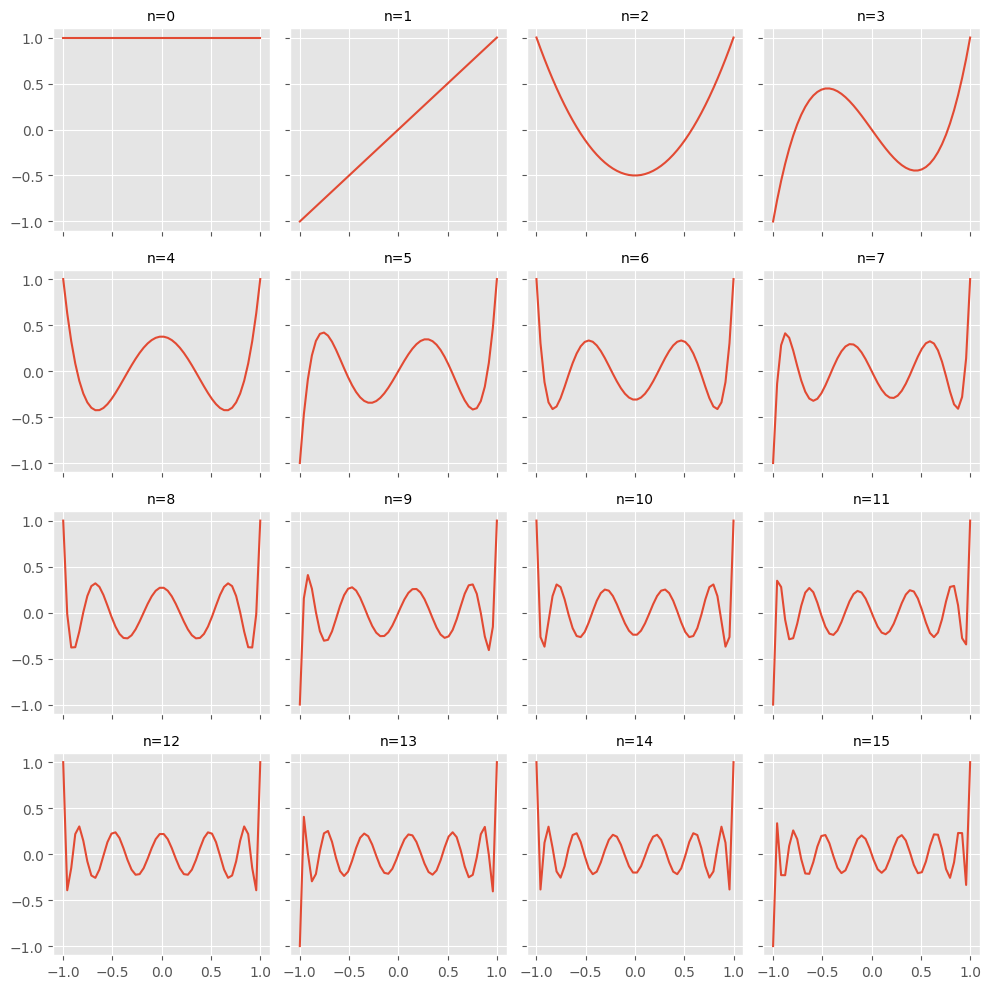
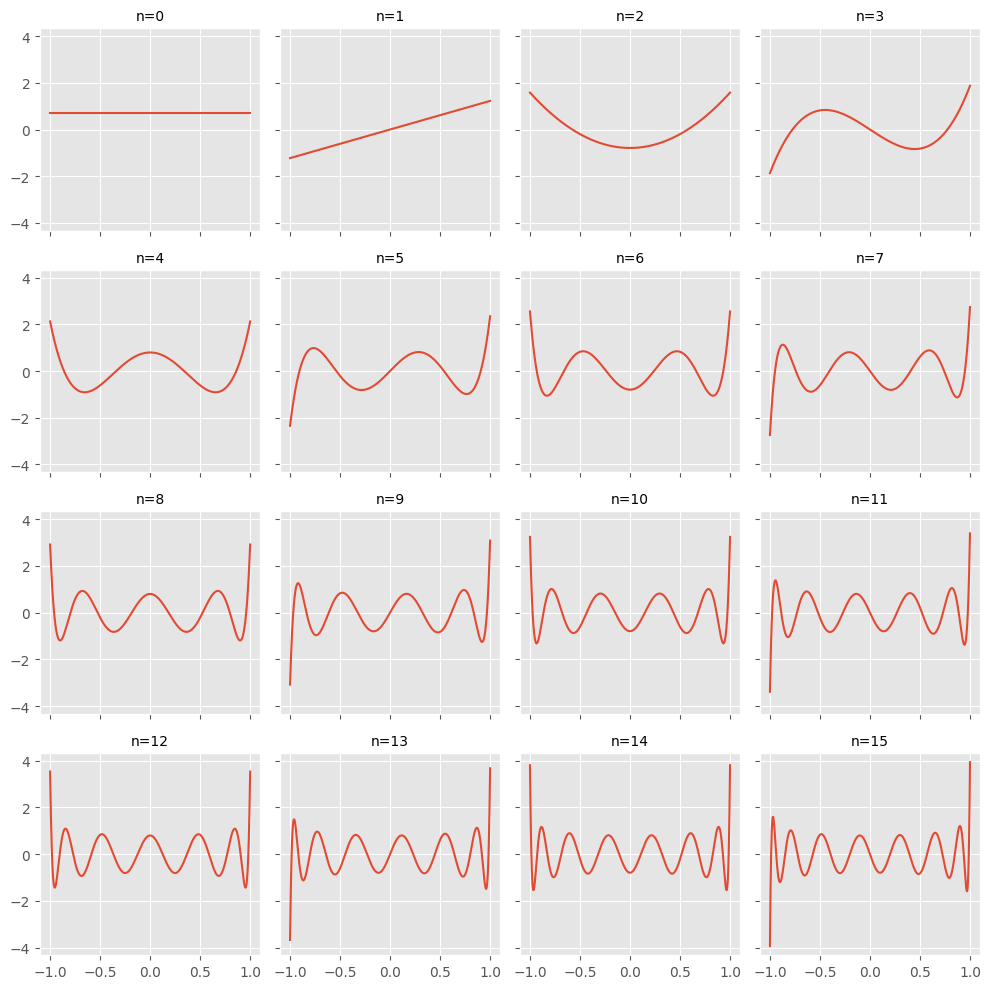
small fixes

diff --git a/_posts/2024-08-15-legendre.md b/_posts/2024-08-15-legendre.md
@@ -124,7 +124,7 @@ X = np.linspace(-1, 1)
 fig, axes = plt.subplots(figsize=(10, 10), nrows=4, ncols=4, sharex=True, sharey=True)
 axes = axes.flatten()
 for n, ax in zip(range(0, 16), axes):
-    y = eval_legendre(n, X)
+    y = eval_legendre(n, X) * np.sqrt((2 * n + 1 ) /2)
     ax.plot(X, y, label=r'$P_{}(x)$'.format(n))
     ax.set_title(f'n={n}', fontdict=dict(size=10))
 fig.tight_layout()
@@ -140,16 +140,16 @@ To create basis functions for our two-dimensional case, wwe take the products of
 
 $$
 \begin{aligned}
-\psi_0(x, y) & = \mathcal{L}_0(x) \mathcal{L}_0(y) \\
-\psi_1(x, y) & = \mathcal{L}_1(x) \mathcal{L}_0(y) \\
-\psi_2(x, y) & = \mathcal{L}_0(x) \mathcal{L}_1(y)
+\psi_1(x, y) & = \mathcal{L}_0(x) \mathcal{L}_0(y) \\
+\psi_2(x, y) & = \mathcal{L}_1(x) \mathcal{L}_0(y) \\
+\psi_3(x, y) & = \mathcal{L}_0(x) \mathcal{L}_1(y)
 \end{aligned}
 $$
 
 and so on. This gives a total of $B=\frac{1}{2}(n + 1)(n + 2)$ basis functions for any value of $m$. Becasue of the orthogonality discussed above, we have
 
 $$
-\int_{-1}^1 \int_{-1}^1 \psi_i(x, y) \psi_j(x, y) dx dx = \delta_{i, j}.
+\int_{-1}^1 \int_{-1}^1 \psi_i(x, y) \psi_j(x, y) dx dy = \delta_{i, j}.
 $$
 
 It is worthwhile to visualize those basis functions, to appreciate their lack of smoothness as $m$ increases.
@@ -199,20 +199,62 @@ $$
 where the coefficients $a_{t, b}$ are estimated by minimizing the least square error,
 
 $$
-a_t = \argmin_{\alpha} \sum_{i=1}^B \left( X_{t, i} - \sum_{b=1}^B \alpha_b \psi_b(x_i, y_i) \right)^2.
+a_t = \argmin_{\alpha} \sum_{i=1}^B \left( X_{t, i} - \sum_{b=1}^B \alpha_b \psi_b(x_i, y_i) \right)^2,
 $$
 
+where $a_t \in \mathbb{R}^B$ is a vector with $B$ elements.
 
-```python
+To apply the Kahrunen-Loève decomposition, we express the basis functions $\varphi_i(x, y)$ as linear combinations of the $\psi_b$ defined above,
 
-```
+$$
+\varphi_m(x, y) = \sum_{b=1}^B c_{m, b} \psi_b(x, y).
+$$
 
+Denoting $A = {A_{t, k}}$ the time series of the coefficients, with $A \in \mathcal{R}^{T, B}$, $\Psi(x, y) = (\psi_1(x, y), \ldots, \psi_B(x, y))$ and $c_m = (c_{m, 1}, \ldots, c_{m, B})$ the column vector of coefficients for the $m-th$ basis function, we obtain
 
-```python
+$$
+\hat X(x, y) = A \Psi(x, y)
+$$
 
-```
+and
 
+$$
+\varphi_m(x, y) = \Psi(x, y)^T c_m.
+$$
 
-```python
+From the $T$ observation we can empirically estimate the covariance function with a simple averaging,
 
-```
+$$
+C(x, y, s, t) = \frac{1}{T}\Psi(x, y)^T A^T A \Psi(s, t),
+$$
+
+where we have assumed for simplicity of exposition that the observations have zero mean.
+
+Since $\varphi_m$ is an eigenfunction, we obtain
+
+$$
+\begin{aligned}
+\int_{-1}^1 \int_{-1}^1 \left[
+\frac{1}{T}\Psi(x, y)^T A^T A \Psi(s, t) ds dt
+\right]
+\Psi(s, t)^T c_m & = \lambda_m \Psi(x, y)^T c_m \\
+%
+\frac{1}{T}\Psi(x, y)^T A^T A
+\int_{-1}^1 \int_{-1}^1
+\Psi(s, t) \Psi(s, t)^T c_m ds dt & = \lambda_m \Psi(x, y)^T c_m.
+\end{aligned}
+$$
+
+The integral can be easily computed because of the orthonormality of the basis functions $\psi$, giving
+
+$$
+\frac{1}{T}\Psi(x, y)^T A^T A c_m = \lambda_m \Psi(x, y)^T c_m, \quad \quad \forall x,y \in \Omega
+$$
+
+that is,
+
+$$
+\frac{1}{T} A^T A c_m = \lambda_m c_m,
+$$
+
+which yields the $m-th$ eigenvalue and eigenvector of $A^T A$, where the eigenvalues are in decreasing ordered.
